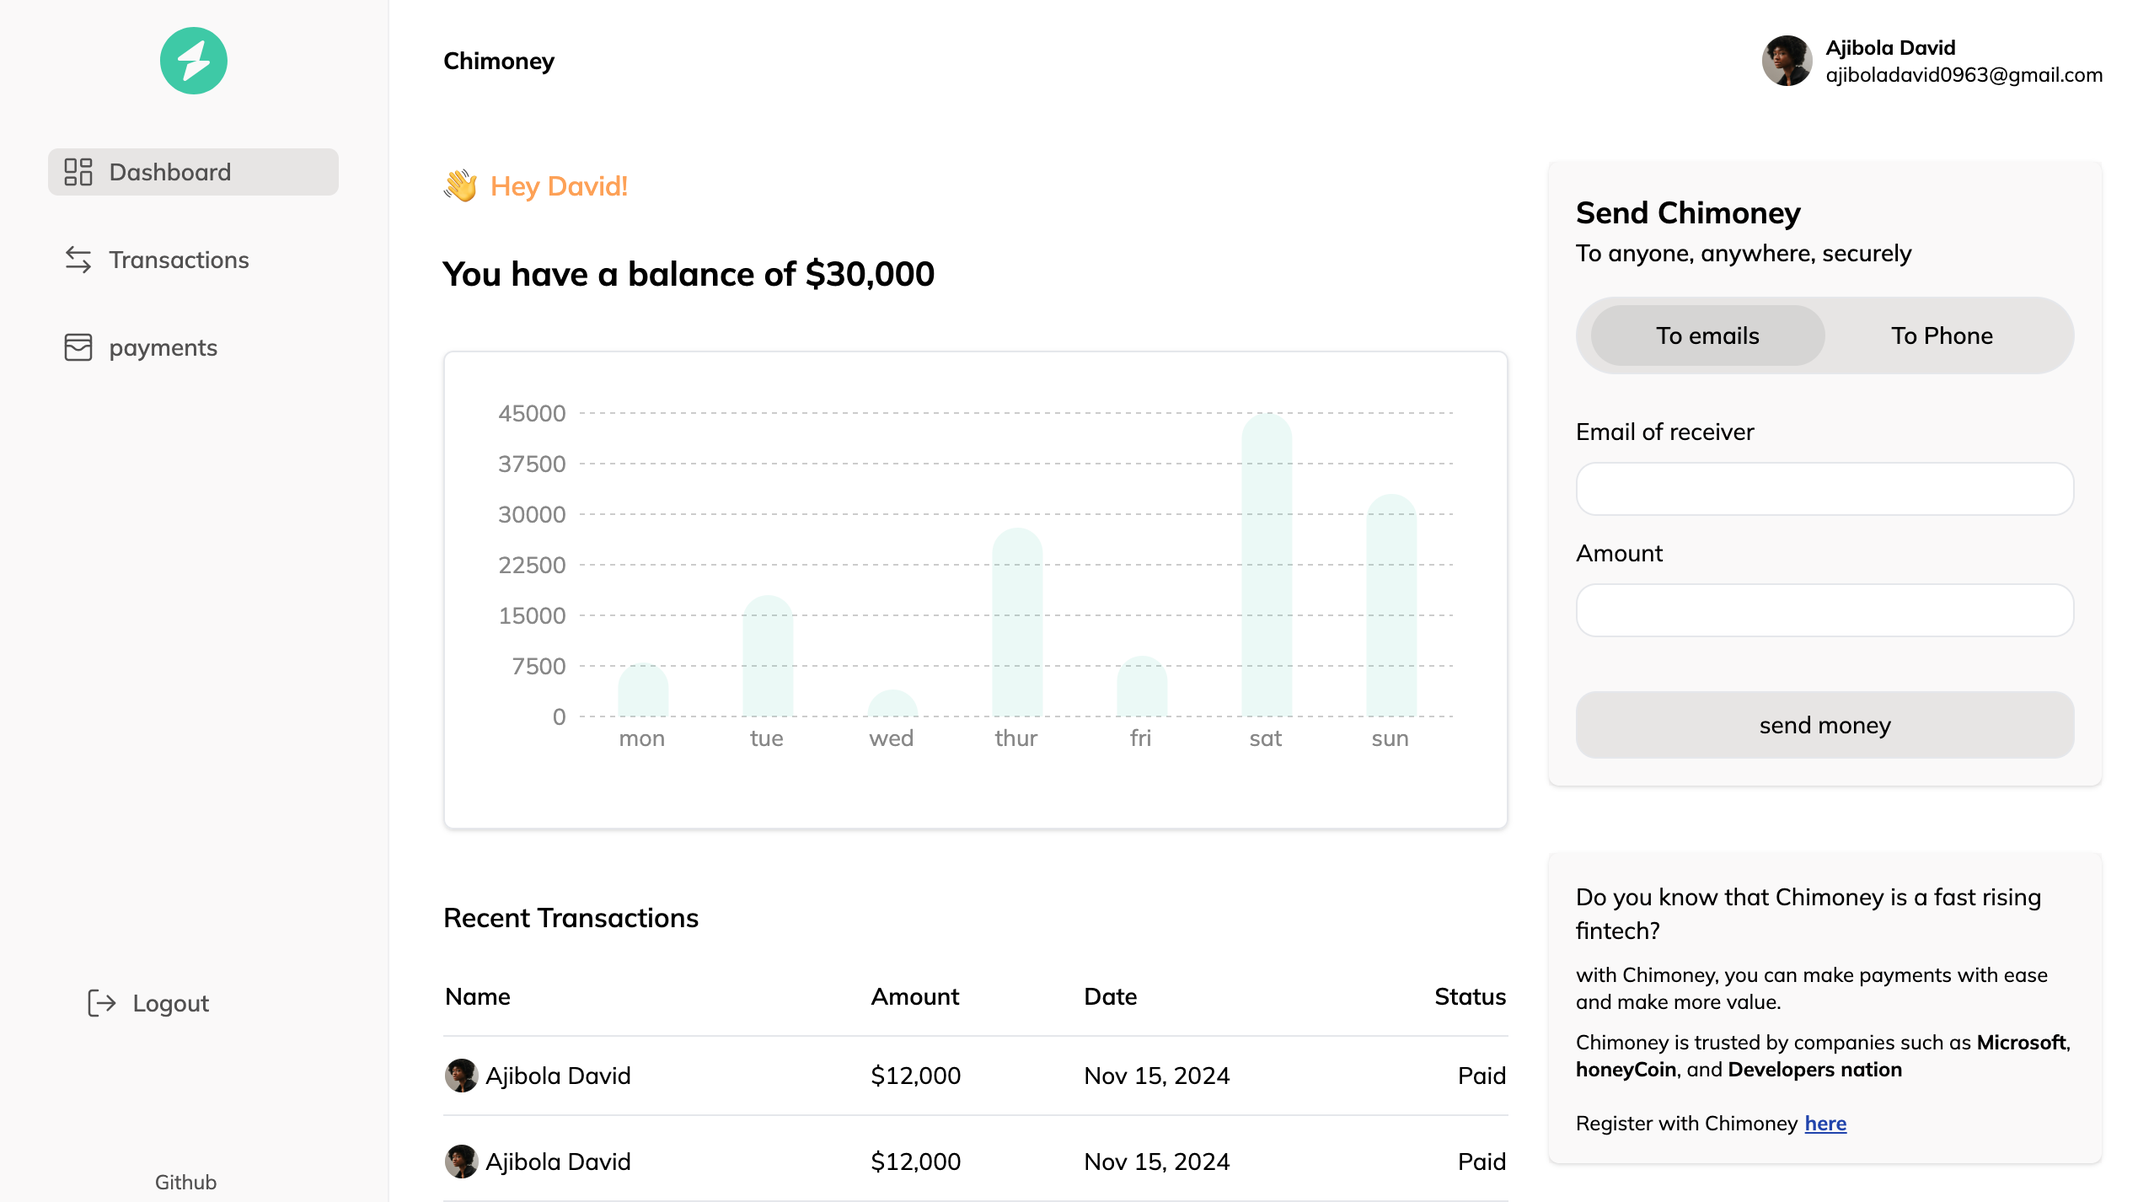
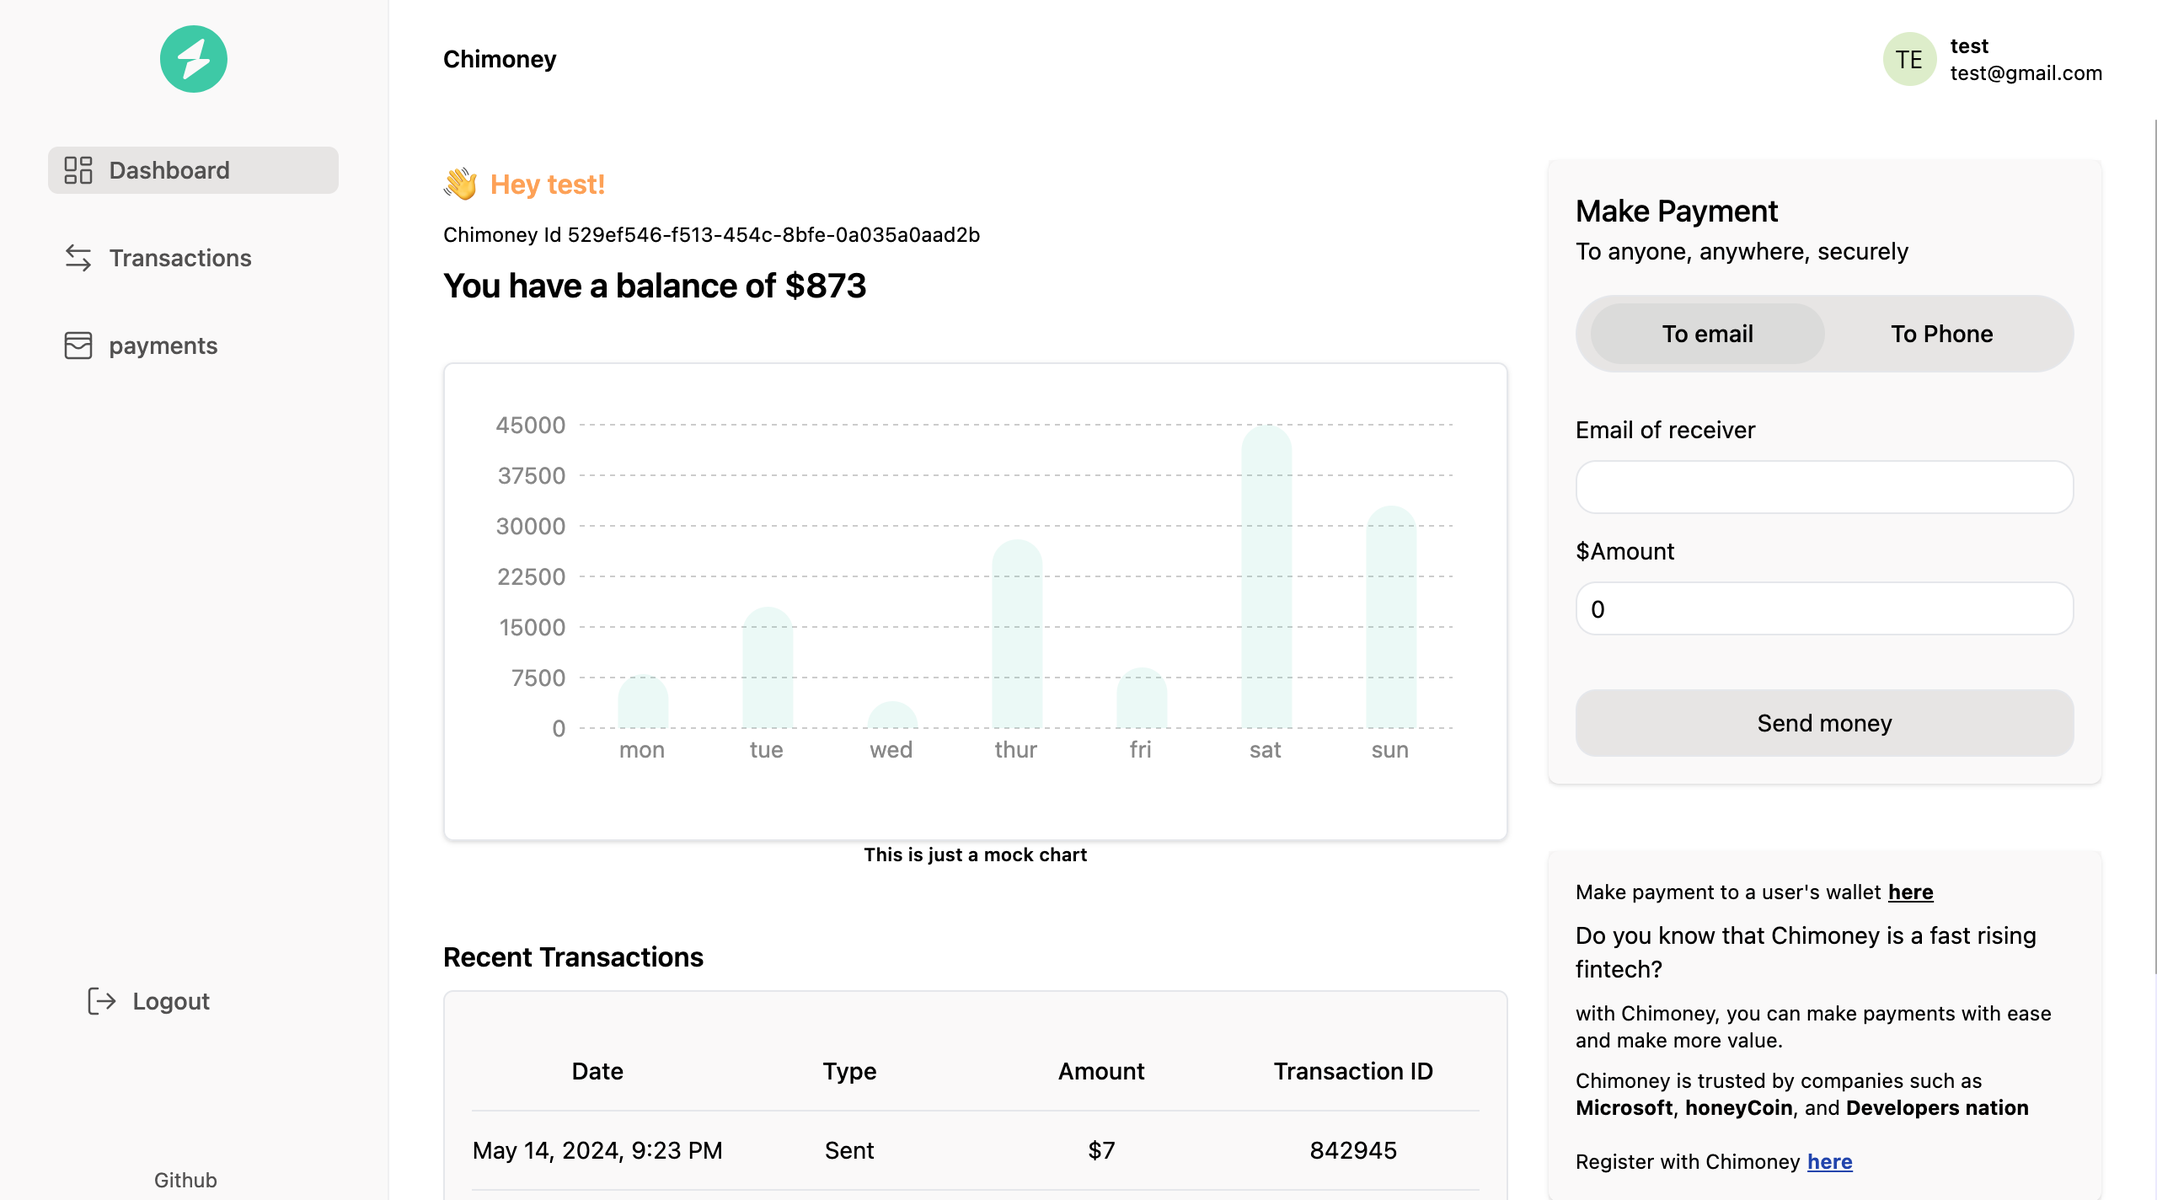
made changes

diff --git a/app/api/auth/[...nextauth]/route.ts b/app/api/auth/[...nextauth]/route.ts
@@ -47,57 +47,55 @@ export const authOptions: NextAuthOptions = {
     callbacks: {
         // @ts-ignore
         async signIn({ user, account }) {
-          
+
             if (account && account.provider === "google") {
                 const { name, email, id, image } = user;
                 try {
                     await dbConnect();
                     const userExists = await usermodel.findOne({ email });
 
-                    if (userExists) {
-                        return;
+                    if (!userExists) {
+                        //creates a chimoney sub account
+                        const response = await fetch(`${process.env.CHIMONEY_BASE_URL}/v0.2/sub-account/create`, {
+                            method: "POST",
+                            headers: {
+                                accept: 'application/json',
+                                "Content-Type": "application/json",
+                                "X-API-KEY": process.env.CHIMONEY_API_KEY as string
+                            },
+                            body: JSON.stringify({
+                                name,
+                                email,
+                            })
+                        });
+                        const responseData = await response.json();
+                        if (responseData.status !== 'success') {
+                            console.log('chimoney error data', responseData);
+                            return;
+                        };
+
+                        console.log("chimoney sub account registration data", responseData);
+                        const userSubId = responseData.data.id; // grabs user sub id from chimoney
+
+                        //creates user in database
+                        const res = await fetch("http://localhost:3000/api/register", {
+                            method: "POST",
+                            headers: {
+                                "Content-Type": "application/json",
+                            },
+                            body: JSON.stringify({
+                                username: name,
+                                email,
+                                password: id,
+                                avatar: image,
+                                userSubId
+                            }),
+                        });
+
+                        if (res.ok) {
+                            return user;
+                        }
                     };
-
-                    //creates a chimoney sub account
-                    const response = await fetch(`${process.env.CHIMONEY_BASE_URL}/v0.2/sub-account/create`, {
-                        method: "POST",
-                        headers: {
-                            accept: 'application/json',
-                            "Content-Type": "application/json",
-                            "X-API-KEY": process.env.CHIMONEY_API_KEY as string
-                        },
-                        body: JSON.stringify({
-                            name,
-                            email,
-                        })
-                    });
-                    const responseData = await response.json();
-                    if (responseData.status !== 'success') {
-                        console.log('chimoney error data', responseData);
-                        return;
-                    };
-
-                    console.log("chimoney sub account registration data", responseData);
-                    const userSubId = responseData.data.id; // grabs user sub id from chimoney
-
-                    //creates user in database
-                    const res = await fetch("http://localhost:3000/api/register", {
-                        method: "POST",
-                        headers: {
-                            "Content-Type": "application/json",
-                        },
-                        body: JSON.stringify({
-                            username: name,
-                            email,
-                            password: id,
-                            avatar: image,
-                            userSubId
-                        }),
-                    });
-
-                    if (res.ok) {
-                        return user;
-                    }
                 } catch (error) {
                     console.log("Sign in error", error);
                 };

diff --git a/components/transactions/transactions.tsx b/components/transactions/transactions.tsx
@@ -1,12 +1,10 @@
 "use client";
 
-import Image from "next/image";
-import testUser from "@/public/testuser.svg";
 import { useEffect, useState } from "react";
 import { useUserContext } from "@/context/userContext";
 import { Loader } from "lucide-react";
 
-const Transactions = ({ maxTransactions }: any) => {
+const Transactions = ({ maxTransactions }: { maxTransactions: number }) => {
   const [transactions, setTransactions] = useState<any[]>([]);
   const [loading, setLoading] = useState(false);
 
@@ -28,7 +26,6 @@ const Transactions = ({ maxTransactions }: any) => {
         })
         const data = await res.json();
         setTransactions(data.message.data);
-        console.log(data.message.data);
         setLoading(false);
       } catch (error) {
         console.log(error);
@@ -43,14 +40,14 @@ const Transactions = ({ maxTransactions }: any) => {
 
   return (
     <div className="flex flex-col h-full overflow-y-auto">
-      <div className="py-2 w-full border rounded-md  bg-[#FAF9F9]">
+      <div className="py-2 w-full border rounded-md bg-[#FAF9F9]">
         <table className="w-full text-sm flex flex-col p-4">
           <thead>
-            <tr className="flex justify-between text-md border-b py-3">
-              <td className="w-[25%] text-center font-semibold">Date</td>
-              <td className="w-[25%] text-center font-semibold">Type</td>
-              <td className="w-[25%] text-center font-semibold">Amount</td>
-              <td className="w-[25%] text-center font-semibold truncate">Sender/Receipent</td>
+            <tr className="flex justify-between text-md border-b py-3 font-medium">
+              <td className="w-[25%] text-center">Date</td>
+              <td className="w-[25%] text-center">Type</td>
+              <td className="w-[25%] text-center">Amount</td>
+              <td className="w-[25%] text-center truncate">Transaction ID</td>
             </tr>
           </thead>
           {loading && (
@@ -68,10 +65,11 @@ const Transactions = ({ maxTransactions }: any) => {
           )}
           {!loading && transactions && transactions.length > 0 && (
             <tbody className="flex flex-col space-y-4 overflow-y-auto">
-              {!loading && transactions &&
+              {!loading &&
                 transactions
+                  .slice()
+                  .sort((a: any, b: any) => new Date(b.issueDate).getTime() - new Date(a.issueDate).getTime())
                   .slice(0, maxTransactions)
-                  .sort((a: any, b: any) => new Date(b.issueDate).getTime() - new Date(a.issueDate).getTime()) // Sort transactions based on issueDate
                   .map((transaction: any) => {
                     const transactionsDate = transaction?.issueDate;
                     //function to format date and time
@@ -96,10 +94,10 @@ const Transactions = ({ maxTransactions }: any) => {
                     const formattedDateTime = formatDateTime(transactionsDate);
                     return (
                       <tr className="flex justify-between text-sm border-b py-3" key={transaction?.id}>
-                        <td className="flex items-center justify-center w-[25%]">{formattedDateTime}</td>
+                        <td className="flex items-center justify-center w-[25%] truncate">{formattedDateTime}</td>
                         <td className="w-[25%] text-center truncate">{transaction?.issuer == userInfo?.userSubId ? "Sent" : "Received"}</td>
                         <td className="w-[25%] text-center truncate">${transaction?.valueInUSD}</td>
-                        <td className="w-[25%] text-center truncate"></td>
+                        <td className="w-[25%] text-center truncate">{transaction?.t_id}</td>
                       </tr>
                     )
                   })}

diff --git a/components/payments/index.tsx b/components/payments/index.tsx
@@ -7,17 +7,17 @@ const Index = () => {
         <div className="flex flex-col space-y-6 w-full pb-10 overflow-y-auto">
             <div className="flex flex-col space-y-12 xl:space-y-0 xl:flex-row items-center justify-around w-full">
                 <div className="w-full sm:w-[80%] xl:w-2/5 flex flex-col space-y-4">
-                    <p className="font-bold">Send money to Email/Phone number</p>
-                    <p className="text-xs font-semibold">Input your recipient&apos;s email or phone number to make payments</p>
+                    <p className="font-semibold">Send money to Email/Phone number</p>
+                    <p className="text-xs">Input your recipient&apos;s email or phone number to make payments</p>
                     <SendMoney />
                 </div>
                 <div className="w-full sm:w-[80%] xl:w-2/5 flex flex-col space-y-4">
-                    <p className="font-bold">Send money to a user&apos;s Chimoney wallet</p>
-                    <p className="text-xs font-semibold">Ask your friend for their Chimoney id - they can find it on the dashboard page</p>
+                    <p className="font-semibold">Send money to a user&apos;s Chimoney wallet</p>
+                    <p className="text-xs">Ask your friend for their Chimoney id - they can find it on the dashboard page</p>
                     <ChimoneyWalletPayment />
                 </div>
             </div>
-            <p className="text-center text-xs">when someone makes payment into your <span className="font-bold">Chimoney Wallet,</span> it would be added to your account balance</p>
+            <p className="text-center text-xs">when someone makes payment into your <span className="font-semibold">Chimoney Wallet,</span> it would be added to your account balance</p>
         </div>
     )
 };

diff --git a/components/navbar/dashboardnav.tsx b/components/navbar/dashboardnav.tsx
@@ -50,12 +50,11 @@ const DashboardNav = () => {
                 <button onClick={handleSidebar}>
                     <PanelRight className="lg:hidden mr-3" />
                 </button>
-                <p className="text-sm font-bold">Chimoney</p>
+                <p className="text-sm font-semibold">Chimoney</p>
             </div>
             <button onClick={handleNavInfo}>
                 {navInfo ? <X className="sm:hidden" /> : <Menu className="sm:hidden" />}
             </button>
-            {/* <p className="text-xs font-medium ml-auto mr-4">Chimoney Id: {userInfo?.userSubId}</p> */}
             <div className={`sm:flex ${navInfo ? "flex absolute bg-white right-2 top-16 z-10 border px-3 py-2 rounded-md" : "hidden"}`} ref={divRef}>
                 {userInfo?.avatar ? (
                     <Image src={userInfo?.avatar} alt="image" width={0} height={0} loader={({ src }) => src} className="w-8 h-8 rounded-full mr-2" />
@@ -63,7 +62,7 @@ const DashboardNav = () => {
                     <Image src={testUser} alt="Default Image" width={30} height={30} className="mr-2" />
                 )}
                 <div className="flex flex-col">
-                    <p className="text-xs font-bold">{userInfo?.username}</p>
+                    <p className="text-xs font-semibold">{userInfo?.username}</p>
                     <p className="text-xs">{userInfo?.email}</p>
                 </div>
             </div>

diff --git a/components/dashboard/dashboard.tsx b/components/dashboard/dashboard.tsx
@@ -11,7 +11,6 @@ const Dashboard = () => {
     const [wallet, setWallet] = useState<any[]>([]);
 
     const { userInfo } = useUserContext();
-    console.log(userInfo?.userSubId)
 
     useEffect(() => {
         const getWallet = async () => {
@@ -37,8 +36,6 @@ const Dashboard = () => {
         }
     }, [userInfo]);
 
-    console.log(wallet);
-
     return (
         <div className="pt-6 px-4 sm:px-8 flex items-start h-full overflow-y-auto">
             {/* first div */}
@@ -48,7 +45,7 @@ const Dashboard = () => {
                     <h1 className="text-[#FFA14E] font-semibold">Hey {userInfo?.username}!</h1>
                 </div>
                 <p className="text-xs font- mt-2">Chimoney Id {userInfo?.userSubId}</p>
-                <h1 className="font-bold text-xl mt-2">You have a balance of ${wallet.length && wallet[0]?.balance}</h1>
+                <h1 className="font-semibold text-xl mt-2">You have a balance of ${wallet.length && wallet[0]?.balance}</h1>
                 <div className="mt-8 pr-3 py-4 border rounded-md shadow">
                     <Chart />
                 </div>

diff --git a/context/userContext.tsx b/context/userContext.tsx
@@ -8,6 +8,8 @@ import {
     useEffect
 } from 'react';
 
+import { useSession } from 'next-auth/react';
+
 type User = {
     avatar: string,
     email: string,
@@ -24,6 +26,7 @@ type UserContextType = {
 export const UserContext = createContext<UserContextType | null>(null);
 
 export const UseUserContext = ({ children }: { children: ReactNode }) => {
+    const { status } = useSession();
     const [userInfo, setUserInfo] = useState<User | null>(null);
 
     useEffect(() => {
@@ -31,13 +34,16 @@ export const UseUserContext = ({ children }: { children: ReactNode }) => {
             const res = await fetch("api/getUser");
             if (!res.ok) {
                 console.log(res);
+                console.log("context couldn't get user");
                 return;
             };
             const resData = await res.json();
             setUserInfo(resData.user);
         };
-        getUser();
-    }, []);
+        if (status === "authenticated") {
+            getUser();
+        };
+    }, [status]);
 
     return (
         <UserContext.Provider value={{ userInfo, setUserInfo }}>

diff --git a/components/payments/sendmoney.tsx b/components/payments/sendmoney.tsx
@@ -77,8 +77,8 @@ const SendMoney = () => {
     return (
         <div className="h-full w-full bg-[#FAF9F9]">
             <div className="rounded-md p-4 shadow">
-                <h1 className="text-lg font-semibold">Make Payment</h1>
-                <p className="text-sm font-medium">To anyone, anywhere, securely</p>
+                <h1 className="text-lg font-medium">Make Payment</h1>
+                <p className="text-sm">To anyone, anywhere, securely</p>
                 <div className="flex items-center text-sm border mt-4 px-2 py-1 rounded-3xl bg-[#E7E5E4]">
                     <button className={`font-medium px-4 py-2 rounded-3xl w-1/2 text-center ${toEmail && "bg-[#dbdbda]"}`} onClick={handleToEmail}>To email</button>
                     <button className={`font-medium px-4 py-2 rounded-3xl w-1/2 text-center ${!toEmail && "bg-[#dbdbda]"}`} onClick={handleToPhoneNumber}>To Phone</button>

diff --git a/components/payments/chimoneyWallet.tsx b/components/payments/chimoneyWallet.tsx
@@ -50,8 +50,8 @@ const ChimoneyWalletPayment = () => {
     return (
         <div className="h-full w-full bg-[#FAF9F9]">
             <div className="rounded-md p-4 shadow">
-                <h1 className="text-lg font-semibold">Make Payment</h1>
-                <p className="text-sm font-medium">To anyone, anywhere, securely</p>
+                <h1 className="text-lg font-medium">Make Payment</h1>
+                <p className="text-sm">To anyone, anywhere, securely</p>
                 <div className="flex items-center justify-center text-sm border mt-4 px-2 py-1 rounded-3xl bg-[#E7E5E4]">
                     <button className="font-medium px-4 py-2 rounded-3xl w-1/2 text-center bg-[#dbdbda]">To Chimoney wallet</button>
                 </div>

diff --git a/app/layout.tsx b/app/layout.tsx
@@ -1,13 +1,7 @@
 import type { Metadata } from "next";
-import { Mulish } from "next/font/google";
 import "./globals.css";
 import { Toaster } from 'react-hot-toast';
 import { AuthProvider } from "./provider";
-
-const mulish = Mulish({
-  subsets: ['latin'],
-  variable: "--font-mulish"
-});
 
 export const metadata: Metadata = {
   title: "Chimoney",
@@ -21,7 +15,7 @@ export default function RootLayout({
 }>) {
   return (
     <html lang="en" className="h-full" suppressHydrationWarning>
-      <body className={` ${mulish.variable} font-mulish flex flex-col h-full`}>
+      <body className={`flex flex-col h-full`}>
         <AuthProvider>
           {children}
           <Toaster />

diff --git a/app/(chimoney)/payments/page.tsx b/app/(chimoney)/payments/page.tsx
@@ -3,8 +3,8 @@ import Index from "@/components/payments";
 const Payments = () => {
     return (
         <div className="pt-6 px-4 sm:px-8 flex flex-col h-full overflow-y-auto">
-            <h1 className="font-bold">Payments</h1>
-            <h3 className="text-sm font-medium">Send payouts to emails, phone numbers, and user&apos;s chimoney wallet ASAP!</h3>
+            <h1 className="font-semibold">Payments</h1>
+            <h3 className="text-sm">Send payouts to emails, phone numbers, and user&apos;s chimoney wallet ASAP!</h3>
             <div className="flex justify-center items-center mt-12">
                 <div className="w-full">
                     <Index />

diff --git a/components/transactions/index.tsx b/components/transactions/index.tsx
@@ -2,9 +2,9 @@ import Transactions from "./transactions";
 const Index = () => {
     return (
         <div className="h-full flex flex-col px-4 sm:px-8 overflow-y-auto">
-            <h1 className="font-bold pt-4 pb-2 ">Transactions</h1>
-            <p className="font-semibold text-xs pb-4">You can only receive money sent to your Chimoney wallet</p>
-            <Transactions />
+            <h1 className="font-semibold pt-4 pb-2 ">Transactions</h1>
+            <p className="text-xs pb-4">You can only receive money sent to your Chimoney wallet</p>
+            <Transactions maxTransactions={Infinity}/>
         </div>
     )
 };

diff --git a/components/auth/login.tsx b/components/auth/login.tsx
@@ -27,7 +27,6 @@ const Login = () => {
             });
             console.log(res);
             if (res && res.error) {
-                console.log(res.error);
                 toast.error("Invalid Credentials");
                 setLoading(false);
                 return;
@@ -36,7 +35,8 @@ const Login = () => {
             setEmail("");
             setPassword("");
             setLoading(false);
-            replace("/dashboard");
+            toast.success("Logged in successfully");
+            replace("dashboard");
         } catch (error) {
             console.log(error);
         };
